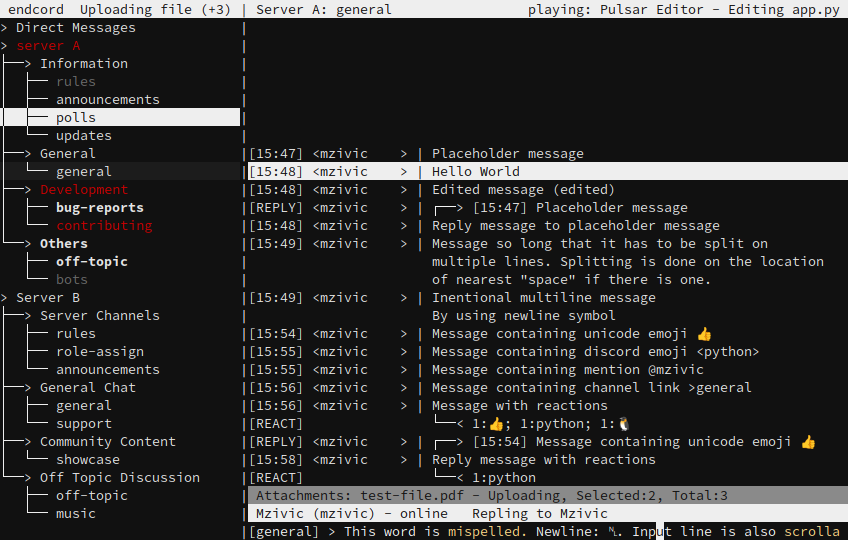
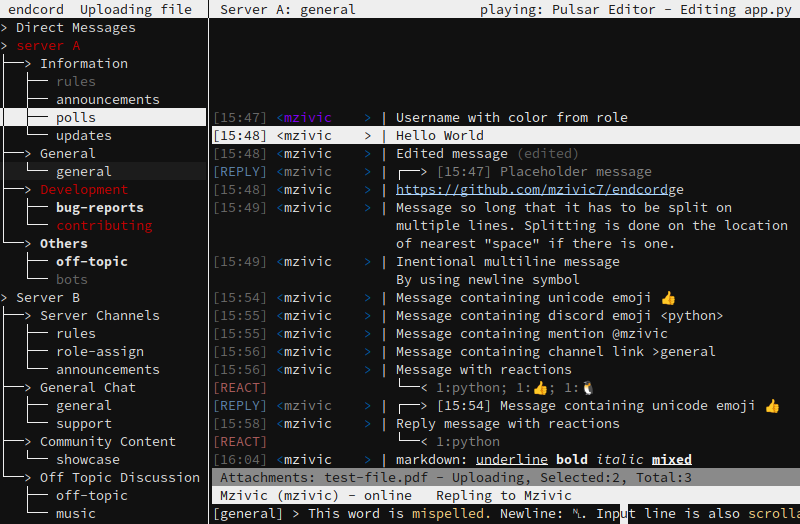
Add different color for urls Update screenshots Fix no mention colors

Changed region(s): [[0.0, 0.0, 1.0, 1.0], [0.5938, 0.0, 1.0, 0.0305]]

diff --git a/endcord/formatter.py b/endcord/formatter.py
@@ -21,6 +21,7 @@ match_md_underline = re.compile(r"((?<=_))?__[^_]+__")
 match_md_bold = re.compile(r"((?<=\*))?\*\*[^\*]+\*\*")
 match_md_strikethrough = re.compile(r"((?<=~))?~~[^~]+~~")   # unused
 match_md_italic = re.compile(r"(((?<=_))?_[^_]+_)|(((?<=\*))?\*[^\*]+\*)")
+match_url = re.compile(r"https?:\/\/\w+(\.\w+)+[^\r\n\t\f\v )\]>]*")
 
 
 def sort_by_indexes(input_list, indexes):
@@ -167,6 +168,24 @@ def format_md_all(line, content_start):
     return line, line_format
 
 
+def format_url_one_line(urls, line_len, newline_len, color):
+    """Generate format for urls in one line"""
+    line_format = []
+    for url in urls:
+        if url[0] > line_len or url[1] < newline_len:
+            continue
+        if url[0] >= newline_len:
+            if url[1] < line_len:
+                line_format.append([color, url[0], url[1]])
+            else:
+                line_format.append([color, url[0], line_len])
+        elif url[1] < line_len:
+            line_format.append([color, newline_len, url[1]])
+        else:
+            line_format.append([color, newline_len, line_len])
+    return line_format
+
+
 def clean_type(embed_type):
     r"""
     Clean embed type string from excessive information
@@ -222,32 +241,39 @@ def generate_chat(messages, roles, channels, format_message, format_newline, for
     color_default = [colors[0]]
     color_blocked = [colors[2]]
     color_deleted = [colors[3]]
-    color_chat_edited = colors_formatted[4][0]   # coming from formated colors
-    color_mention_chat_edited = colors_formatted[9][0]
-
+    color_chat_edited = colors_formatted[4][0]
+    color_mention_chat_edited = colors_formatted[10][0]
+    color_chat_url = colors_formatted[5][0][0]
+    color_mention_chat_url = colors_formatted[11][0][0]
     # load formatted colors: [[id], [id, start, end]...]
     color_message = colors_formatted[0]
     color_newline = colors_formatted[1]
     color_reply = colors_formatted[2]
     color_reactions = colors_formatted[3]
-    color_mention_message = colors_formatted[5]
-    color_mention_newline = colors_formatted[6]
-    color_mention_reply = colors_formatted[7]
-    color_mention_reactions = colors_formatted[8]
+    color_mention_message = colors_formatted[6]
+    color_mention_newline = colors_formatted[7]
+    color_mention_reply = colors_formatted[8]
+    color_mention_reactions = colors_formatted[9]
 
+    placeholder_timestamp = generate_timestamp("2015-01-01T00:00:00.000000+00:00", format_timestamp)
     pre_content_len = len(format_message
         .replace("%username", " " * limit_username)
         .replace("%global_name", " " * limit_global_name)
-        .replace("%timestamp", generate_timestamp("2015-01-01T00:00:00.000000+00:00", format_timestamp))
+        .replace("%timestamp", placeholder_timestamp)
         .replace("%edited", "")
         .replace("%content", ""),
     ) - 1
     pre_name_len = len(format_message
         .replace("%username", "\n")
         .replace("%global_name", "\n")
-        .replace("%timestamp", generate_timestamp("2015-01-01T00:00:00.000000+00:00", format_timestamp))
+        .replace("%timestamp", placeholder_timestamp)
         .split("\n")[0],
     ) - 1
+    newline_len = len(format_newline
+        .replace("%timestamp", placeholder_timestamp)
+        .replace("%content", ""),
+        )
+
     if format_message.find("%username") > format_message.find("%global_name"):
         end_name = pre_name_len + limit_username + 1
     else:
@@ -326,7 +352,9 @@ def generate_chat(messages, roles, channels, format_message, format_newline, for
                 if reply_embeds:
                     for embed in reply_embeds:
                         if embed["url"] not in content:
-                            content = content + f"\n[{clean_type(embed["type"])} embed]: {embed["url"]}"
+                            if content:
+                                content += "\n"
+                            content += f"[{clean_type(embed["type"])} embed]: {embed["url"]}"
                 reply_line = (
                     format_reply
                     .replace("%username", normalize_string(message["referenced_message"]["username"], limit_username))
@@ -366,7 +394,9 @@ def generate_chat(messages, roles, channels, format_message, format_newline, for
         if embeds:
             for embed in embeds:
                 if embed["url"] and embed["url"] not in content:
-                    content = content + f"\n[{clean_type(embed["type"])} embed]: {embed["url"]}"
+                    if content:
+                        content += "\n"
+                    content += f"[{clean_type(embed["type"])} embed]: {embed["url"]}"
         message_line = (
             format_message
             .replace("%username", normalize_string(message["username"], limit_username))
@@ -377,7 +407,14 @@ def generate_chat(messages, roles, channels, format_message, format_newline, for
         )
         message_line, md_format = format_md_all(message_line, pre_content_len)
 
+        # find all urls
+        urls = []
+        if color_chat_url:
+            for match in re.finditer(match_url, message_line):
+                urls.append([match.start(), match.end()])
+
         # limit message_line and split to multiline
+        newline_index = max_length
         if len(message_line) > max_length:
             newline_index = len(message_line[:max_length].rsplit(" ", 1)[0])   #  splits sentence on space
             if newline_index <= len(
@@ -405,6 +442,8 @@ def generate_chat(messages, roles, channels, format_message, format_newline, for
         elif mentioned:
             format_line = color_mention_message[:]
             format_line += md_format
+            if color_chat_url:
+                format_line += format_url_one_line(urls, newline_index+1, 0, color_mention_chat_url)
             if alt_role_color:
                 format_line.append([alt_role_color, pre_name_len, end_name])
             if edited and not next_line:
@@ -413,6 +452,9 @@ def generate_chat(messages, roles, channels, format_message, format_newline, for
         else:
             format_line = color_message[:]
             format_line += md_format
+            if color_chat_url:
+                new_format = format_url_one_line(urls, newline_index+1, 0, color_chat_url)
+                format_line += new_format
             if role_color:
                 format_line.append([role_color, pre_name_len, end_name])
             if edited and not next_line:
@@ -420,6 +462,7 @@ def generate_chat(messages, roles, channels, format_message, format_newline, for
             temp_format.append(format_line)
 
         # newline
+        line_num = 1
         while next_line:
             new_line = (
                 format_newline
@@ -427,16 +470,16 @@ def generate_chat(messages, roles, channels, format_message, format_newline, for
                 .replace("%content", next_line)
             )
             new_line, md_format = format_md_all(new_line, pre_content_len)
+            content_index_correction = newline_len - 1 - newline_index
+            for url in urls:
+                url[0] += content_index_correction
+                url[1] += content_index_correction
 
             # limit new_line and split to next line
             if len(new_line) > max_length:
                 newline_index = len(new_line[:max_length].rsplit(" ", 1)[0])
-                if newline_index <= len(
-                    format_newline
-                    .replace("%timestamp", generate_timestamp(message["timestamp"], format_timestamp, convert_timezone))
-                    .replace("%content", ""),
-                    ):
-                        newline_index = max_length
+                if newline_index <= newline_len:
+                    newline_index = max_length
                 if "\n" in new_line[:newline_index]:
                     newline_index = new_line.index("\n")
                 next_line = new_line[newline_index+1:]
@@ -447,7 +490,6 @@ def generate_chat(messages, roles, channels, format_message, format_newline, for
                 new_line = new_line[:newline_index]
             else:
                 next_line = None
-
             # formatting
             temp_chat.append(new_line)
             if disable_formatting:
@@ -455,15 +497,20 @@ def generate_chat(messages, roles, channels, format_message, format_newline, for
             elif mentioned:
                 format_line = color_mention_newline[:]
                 format_line += md_format
+                if color_chat_url:
+                    format_line += format_url_one_line(urls, newline_index+1, newline_len, color_mention_chat_url)
                 if edited and not next_line:
                     format_line.append(color_mention_chat_edited + [len(new_line) - len_edited, len(new_line)])
                 temp_format.append(format_line)
             else:
                 format_line = color_newline[:]
                 format_line += md_format
+                if color_chat_url:
+                    format_line += format_url_one_line(urls, newline_index+1, newline_len, color_chat_url)
                 if edited and not next_line:
                     format_line.append([*color_chat_edited, len(new_line) - len_edited, len(new_line)])
                 temp_format.append(format_line)
+            line_num += 1
 
         # reactions
         if message["reactions"]:

diff --git a/endcord/gateway.py b/endcord/gateway.py
@@ -594,11 +594,12 @@ class Gateway():
                             content = content.strip("\n")
                         else:
                             content = None
-                        embeds.append({
-                            "type": embed["type"],
-                            "name": None,
-                            "url": content,
-                        })
+                        if urllib.parse.urlparse(content).path not in response["d"]["content"]:
+                            embeds.append({
+                                "type": embed["type"],
+                                "name": None,
+                                "url": content,
+                            })
                     for attachment in response["d"]["attachments"]:
                         embeds.append({
                             "type": attachment.get("content_type", "unknown"),

diff --git a/endcord/app.py b/endcord/app.py
@@ -23,7 +23,7 @@ APP_NAME = "endcord"
 MESSAGE_UPDATE_ELEMENTS = ("id", "edited", "content", "mentions", "mention_roles", "mention_everyone", "embeds")
 
 download = downloader.Downloader()
-match_urls = re.compile(r"https?:\/\/\w+(\.\w+)+\S*")
+match_url = re.compile(r"https?:\/\/\w+(\.\w+)+[^\r\n\t\f\v )\]>]*")
 
 class Endcord:
     """Main app class"""
@@ -489,7 +489,7 @@ class Endcord:
             elif action == 10:
                 msg_index = self.lines_to_msg(chat_sel + 1)
                 urls = []
-                for url in re.findall(match_urls, self.messages[msg_index]["content"]):
+                for url in re.findall(match_url, self.messages[msg_index]["content"]):
                     urls.append(url)
                 for embed in self.messages[msg_index]["embeds"]:
                     if embed["url"]:

diff --git a/endcord/defaults.py b/endcord/defaults.py
@@ -72,7 +72,8 @@ theme = {
     "color_tree_active_mentioned": [197, 234],
     "color_format_message": [[-1, -1], [242, -2, 0, 0, 7], [25, -2, 0, 8, 9], [25, -2, 0, 19, 20]],
     "color_format_newline": None,
-    "color_format_reply": [[245, -1], [67, -1, 0, 0, 7], [25, -2, 0, 8, 9], [25, -2, 0, 19, 20], [-1, -1, 0, 21, 27]],
-    "color_format_reactions": [[245, -1], [131, -2, 0, 0, 7], [-1, -1, 0, 23, 27]],
+    "color_format_reply": [[245, -1], [67, -2, 0, 0, 7], [25, -2, 0, 8, 9], [25, -2, 0, 19, 20], [-1, -2, 0, 21, 27]],
+    "color_format_reactions": [[245, -1], [131, -2, 0, 0, 7], [-1, -2, 0, 23, 27]],
     "color_chat_edited": [241, -1],
+    "color_chat_url": [153, -1, "u"],
 }

diff --git a/endcord/peripherals.py b/endcord/peripherals.py
@@ -225,8 +225,6 @@ def check_color_formatted(color_format):
     for color in color_format[1:]:
         if color[0] == -2:
             color[0] = color_format[0][0]
-        if color[1] == -2:
-            color[1] = color_format[0][1]
     return color_format
 
 
@@ -239,6 +237,7 @@ def extract_colors_formatted(config):
         check_color_formatted(config["color_format_reactions"]),
         # not complex but is here so it can be initialized for alt bg color
         [check_color(config["color_chat_edited"])],
+        [check_color(config["color_chat_url"])],
     )
 
 

diff --git a/endcord/tui.py b/endcord/tui.py
@@ -587,8 +587,11 @@ class TUI():
         # using bg from alt_color
         for format_colors in colors:
             format_codes = []
-            for color in format_colors:
+            for num, color in enumerate(format_colors):
+                if num == 0:
+                    color[1] = alt_color[1]
                 if color[1] == -2:
+                    color[1] = format_colors[0][1]
                     color[1] = alt_color[1]
                 pair_id = self.init_pair(color[:3])
                 format_codes.append([pair_id, *color[3:]])

diff --git a/main.py b/main.py
@@ -7,7 +7,7 @@ import sys
 from endcord import app, arg, peripherals
 
 APP_NAME = "endcord"
-VERSION = "0.5.0"
+VERSION = "0.6.0"
 default_config_path = peripherals.config_path
 log_path = peripherals.log_path
 

diff --git a/configuration.md b/configuration.md
@@ -158,16 +158,18 @@ Every next list has additional `start` and `end`- indexes on a line where color 
 - `color_tree_unseen = [255, -1, "b"]`  
 - `color_tree_mentioned = [197, -1]`  
 - `color_tree_active_mentioned = [197, 234]`
-- `color_format_message = [[-1, -1], [242, -2, 0, 0, 6], [25, -2, 0, 8, 8], [25, -2, 0, 19, 19]]`  
+- `color_format_message = [[-1, -1], [242, -2, 0, 0, 7], [25, -2, 0, 8, 9], [25, -2, 0, 19, 20]]`  
     Color format for message base string. Corresponding to `format_message`.
 - `color_format_newline = None`  
     Color format for each newline string after message base. Corresponding to `format_newline`.
-- `color_format_reply = [[245, -1], [67, -2, 0, 0, 6], [25, -2, 0, 8, 8], [25, -2, 0, 19, 19], [-1, -1, 0, 21, 26]]`  
+- `color_format_reply = [[245, -1], [67, -2, 0, 0, 7], [25, -2, 0, 8, 9], [25, -2, 0, 19, 20], [-1, -2, 0, 21, 27]]`  
     Color format for replied message string. Corresponding to `format_reply`.
-- `color_format_reactions = [[245, -1], [131, -2, 0, 0, 6], [-1, -1, 0, 23, 26]]`  
+- `color_format_reactions = [[245, -1], [131, -2, 0, 0, 7], [-1, -2, 0, 23, 27]]`  
     Color format for message reactions string. Corresponding to `format_reactions`.
 - `color_chat_edited = [241, -1]`  
     Color for `edited_string`.
+- `color_chat_url = [153, -1, "u"]`  
+    Color for urls in message content and embeds.
 
 ## format_message
 - `%content` - message text
